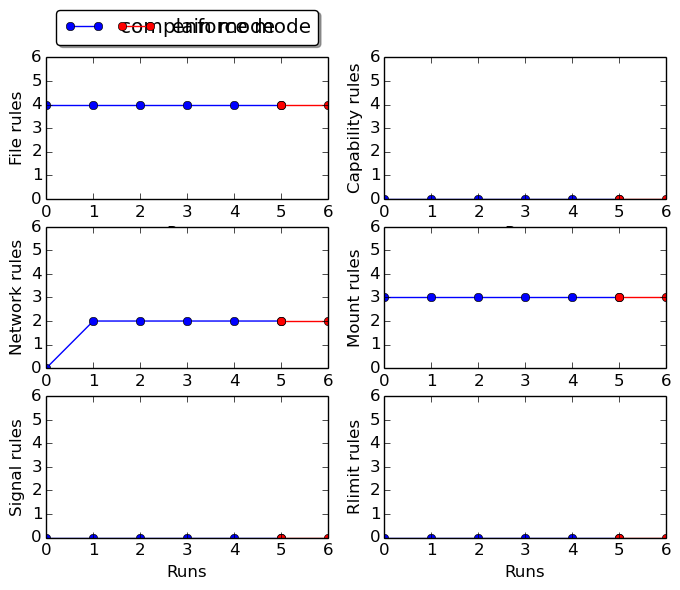
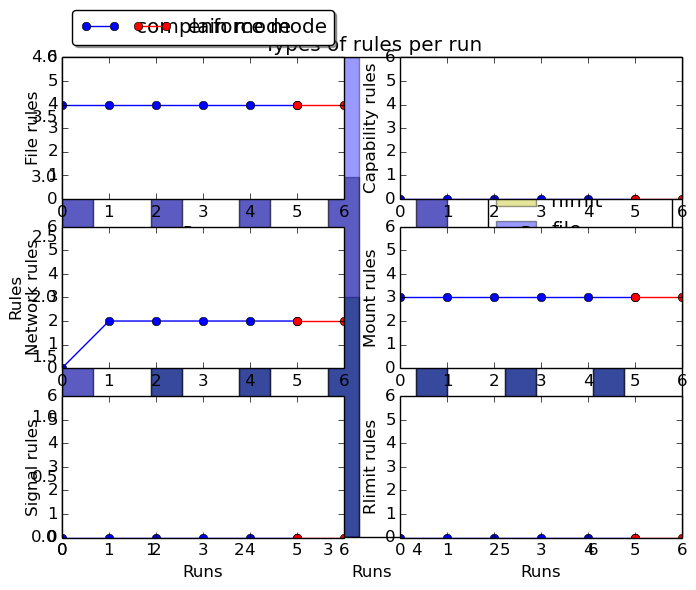
Trying to create bar plots

diff --git a/Benchmarks/media-streaming/Parser/metrics/plot_type_rules.py b/Benchmarks/media-streaming/Parser/metrics/plot_type_rules.py
@@ -122,6 +122,34 @@ enforce = 5 #Read this from bash script
 
 fig = plt.figure()
 
+##Bars
+fig, ax = plt.subplots()
+
+#index = np.arange(n_groups)
+bar_width = 0.35
+
+opacity = 0.4
+
+rects1 = ax.bar(x_Axis, capabilities, bar_width, alpha=opacity, color='r', label='capabilities')
+rects2 = ax.bar(x_Axis, network, bar_width, alpha=opacity, color='g', label='network')
+rects3 = ax.bar(x_Axis, signal, bar_width, alpha=opacity, color='m', label='signal')
+rects4 = ax.bar(x_Axis, mount, bar_width, alpha=opacity, color='k', label='mount')
+rects5 = ax.bar(x_Axis, rlimit, bar_width, alpha=opacity, color='y', label='rlimit')
+rects6 = ax.bar(x_Axis, file_rules, bar_width, alpha=opacity, color='b', label='file')
+
+ax.set_xlabel('Runs')
+ax.set_ylabel(r'Rules')
+ax.set_title('Types of rules per run')
+ax.set_xticks(x_Axis)
+ax.set_xticklabels(x_Axis)
+ax.legend()
+plt.show()
+output = "../../parser_output/Bar_types_" + service + ".png"
+plt.savefig(output,bbox_inches="tight")
+
+#fig.tight_layout()
+#plt.show()
+
 #Complain and enforce different colour                                 
 complain_enforce = []
 with open("changes",'r') as infile:
